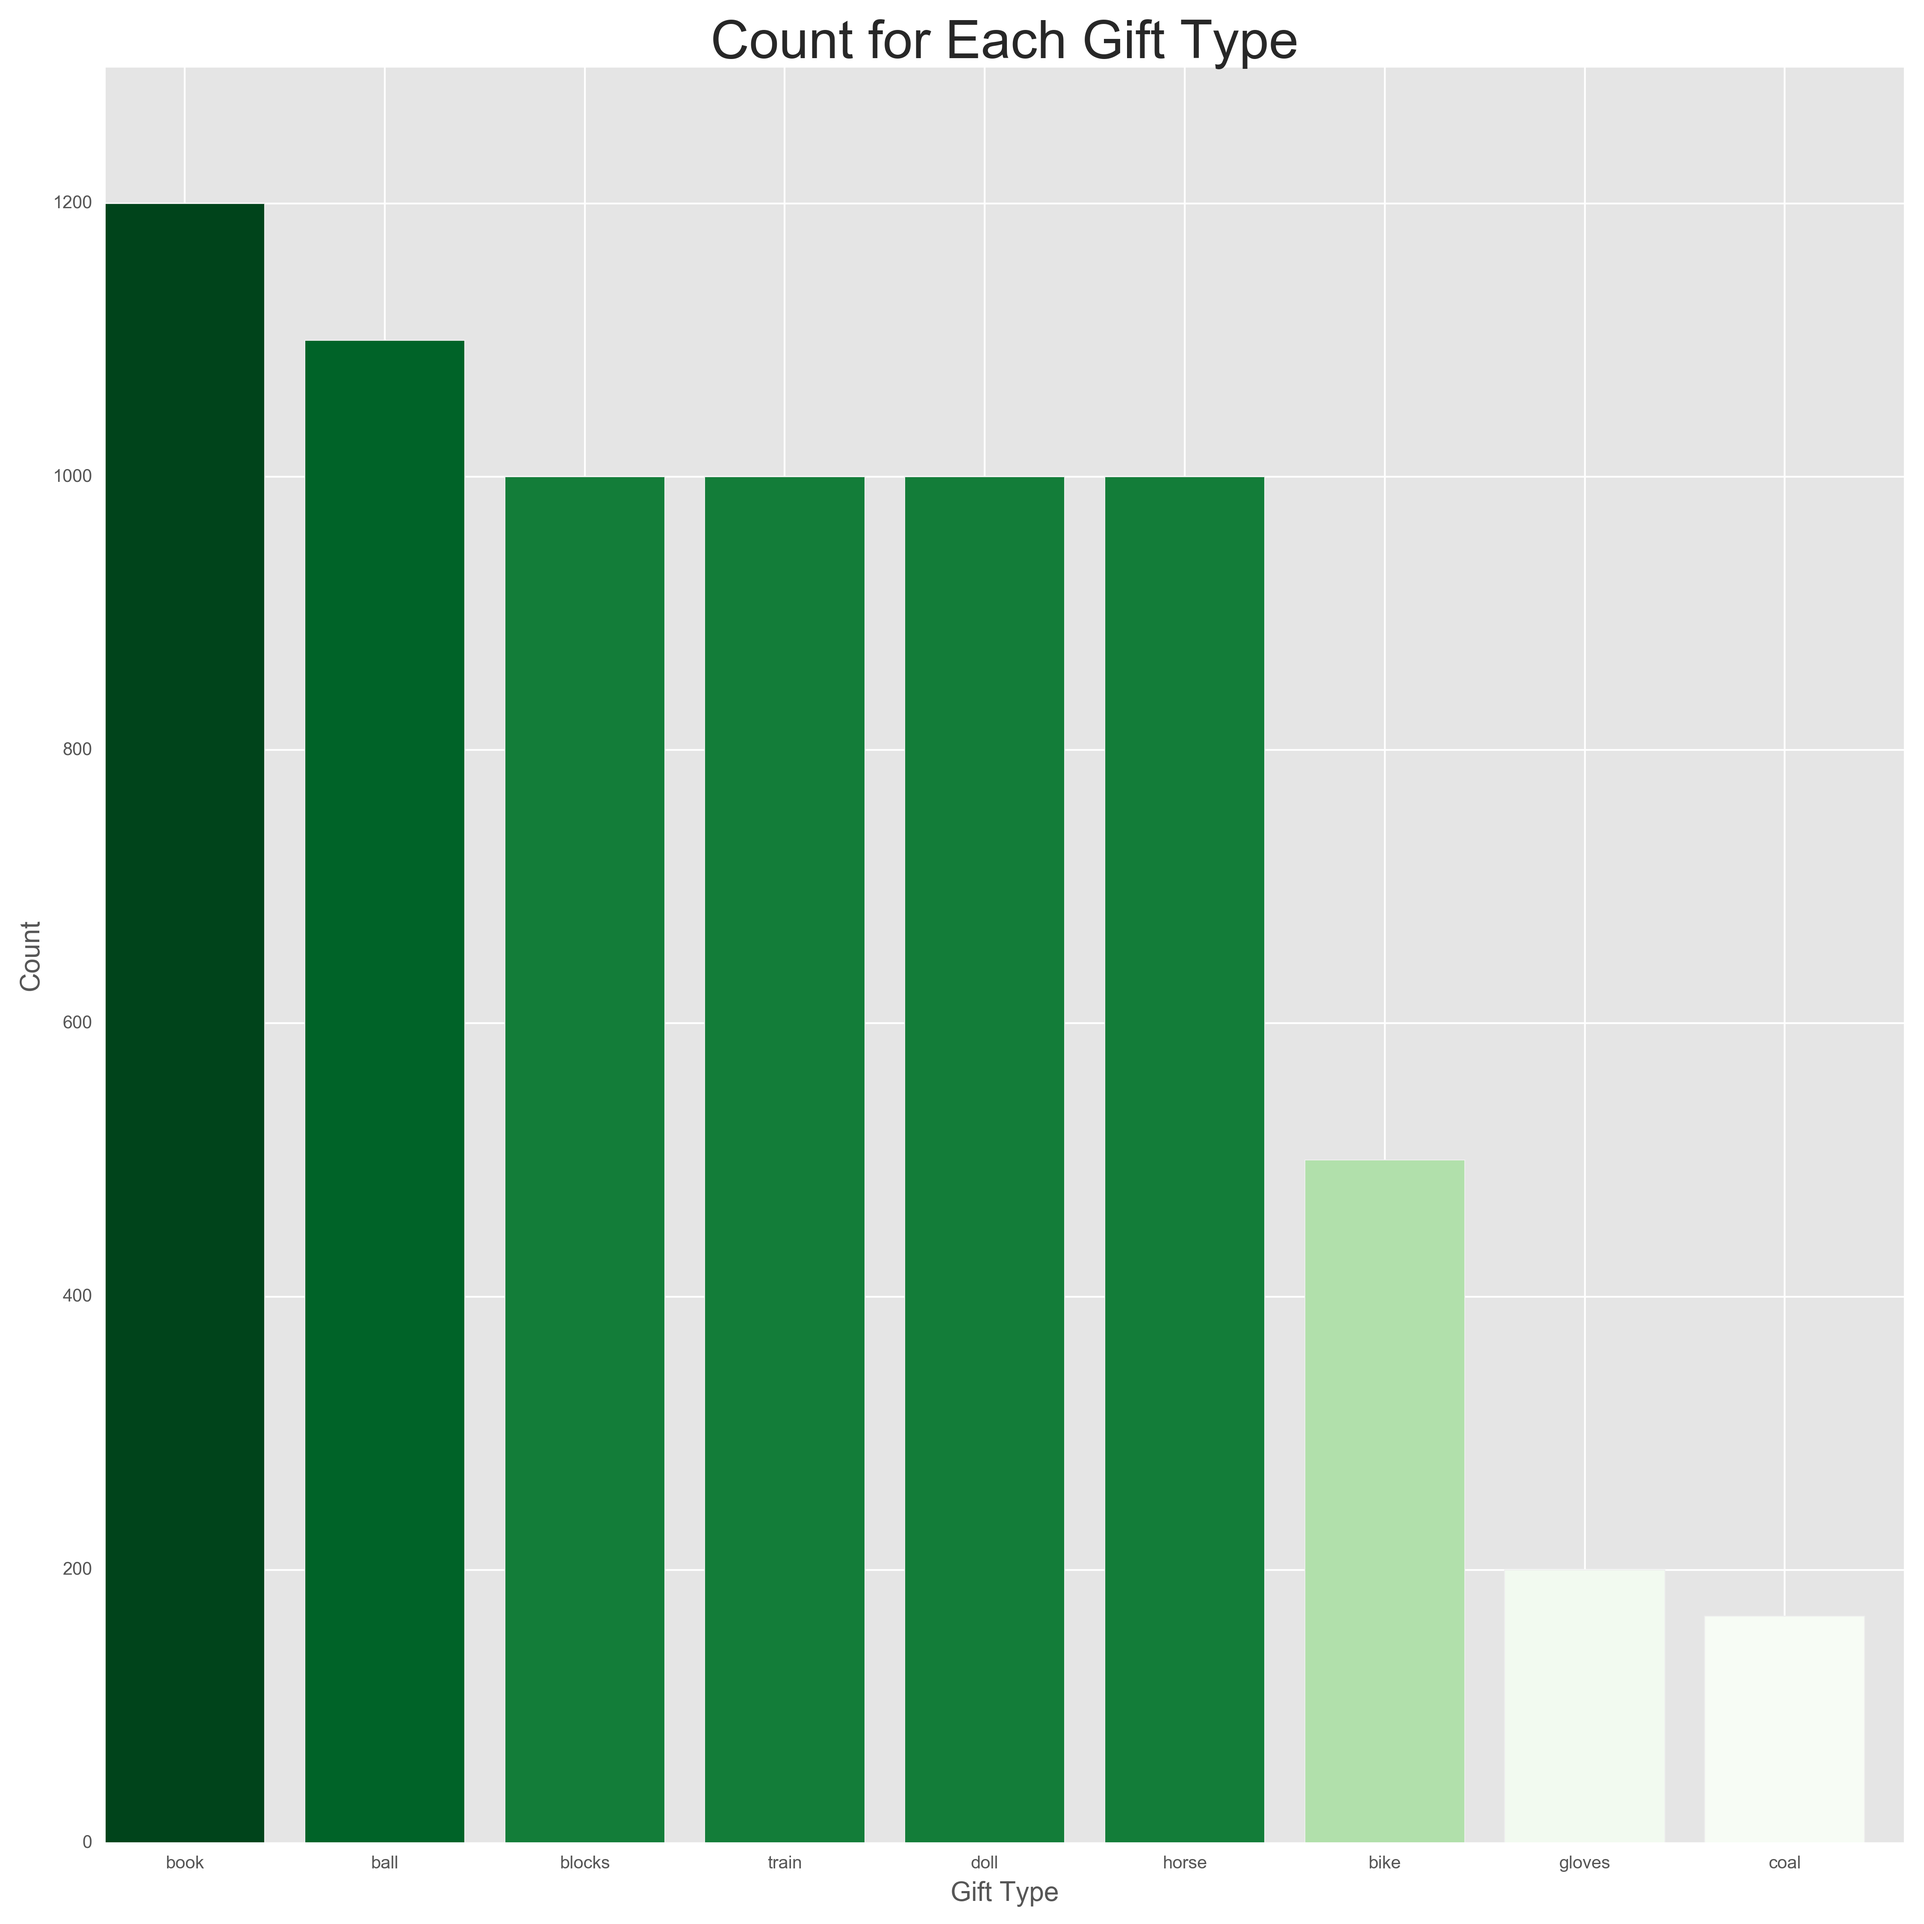
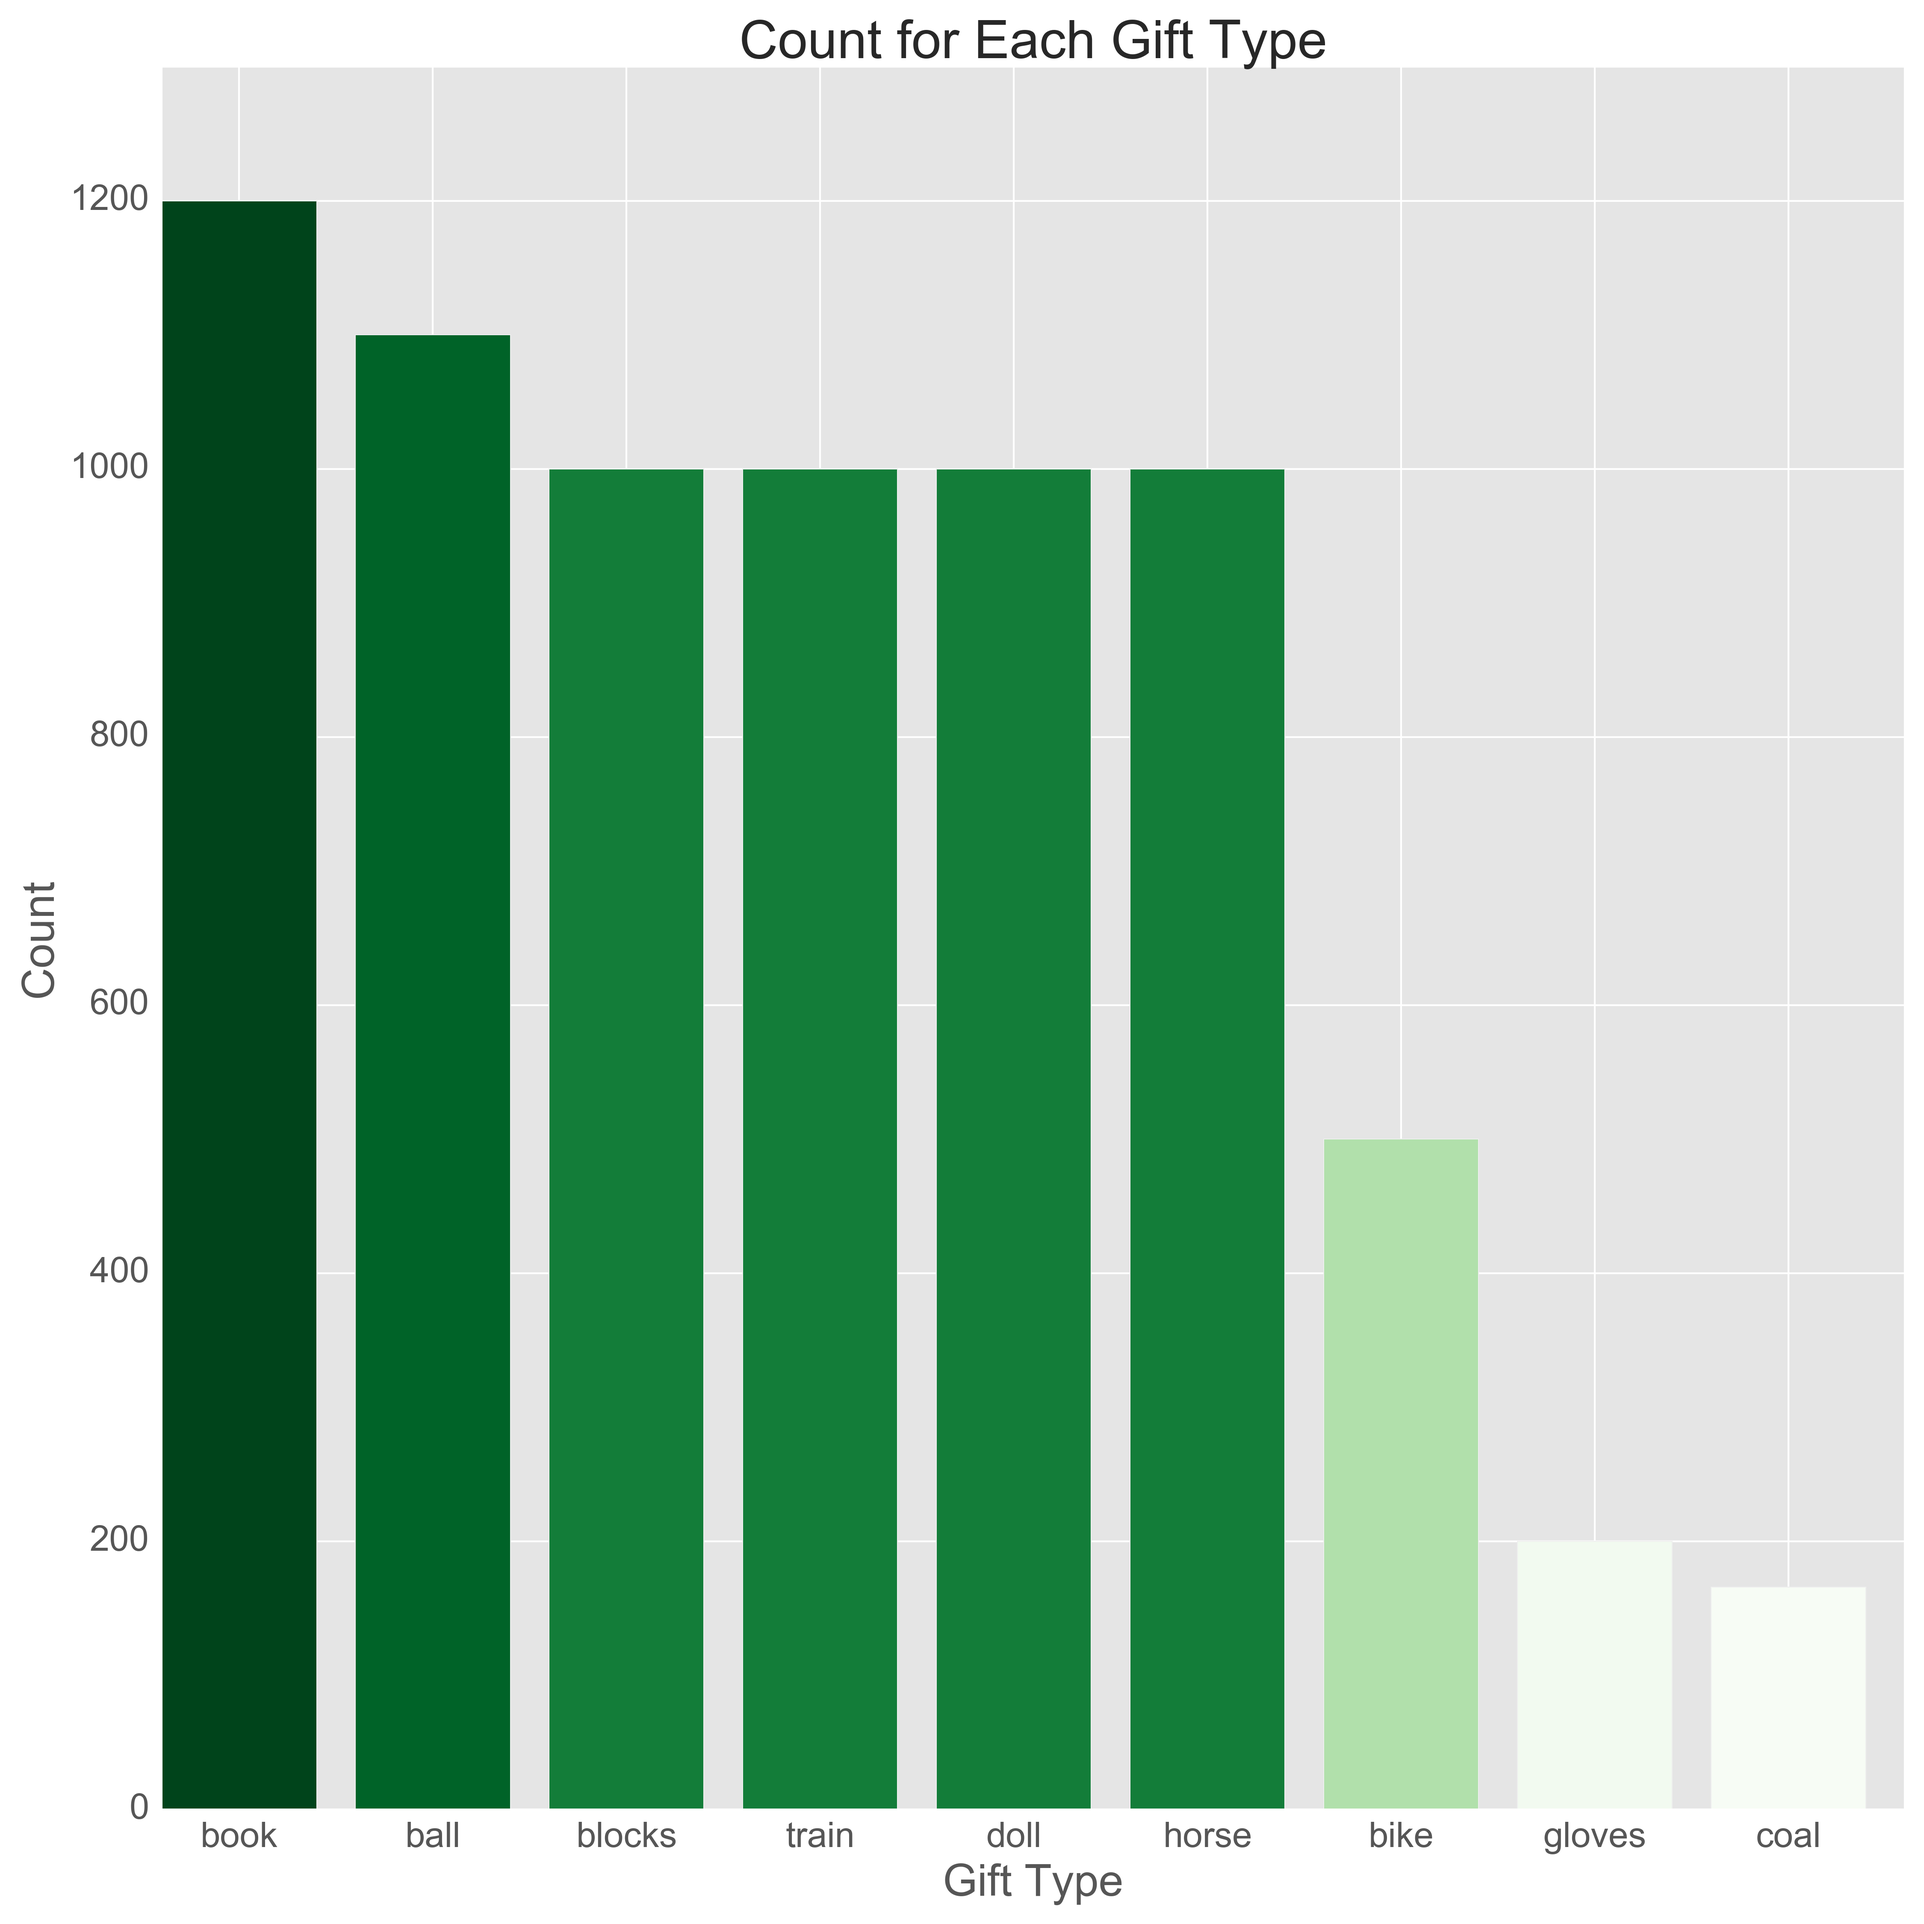
modify the plotting funtion for count on each type

diff --git a/Santa.py b/Santa.py
@@ -79,6 +79,8 @@ def simulate_weights(df, gifts_weights_distribution, seed):
     return weights_dict
 
 ## plot the data 
+
+# plot the count 
 seed = 100
 gift_weights = simulate_weights(gifts, gifts_weights_distribution, seed)
 
@@ -107,16 +109,18 @@ def visualize_count(df, gifts_weights_distribution, seed):
     color_map = cm.get_cmap('Spectral')
     fig, axes = plt.subplots(figsize=[15, 15])
     axes.bar(list(range(len(gift_types))), gift_counts, color=bar_colors)
+    axes.tick_params(labelsize=20)
     axes.set_xticks(np.arange(len(gift_types))+0.4)
-    axes.set_xticklabels(gift_types)
-    axes.set_xlabel('Gift Type', fontsize=15)
-    axes.set_ylabel('Count', fontsize=15)
+    axes.set_xticklabels(gift_types, fontsize=20)
+    axes.set_xlabel('Gift Type', fontsize=25)
+    axes.set_ylabel('Count', fontsize=25)
     axes.set_ylim(0, max(gift_counts)+100)
     axes.set_title('Count for Each Gift Type', fontsize=30)
     fig.tight_layout()
     plt.savefig('Count_for_each_type.png', dpi=300)
     
-# plot the count 
+# plot the each gift type's weight distribution
+
 
 
 
